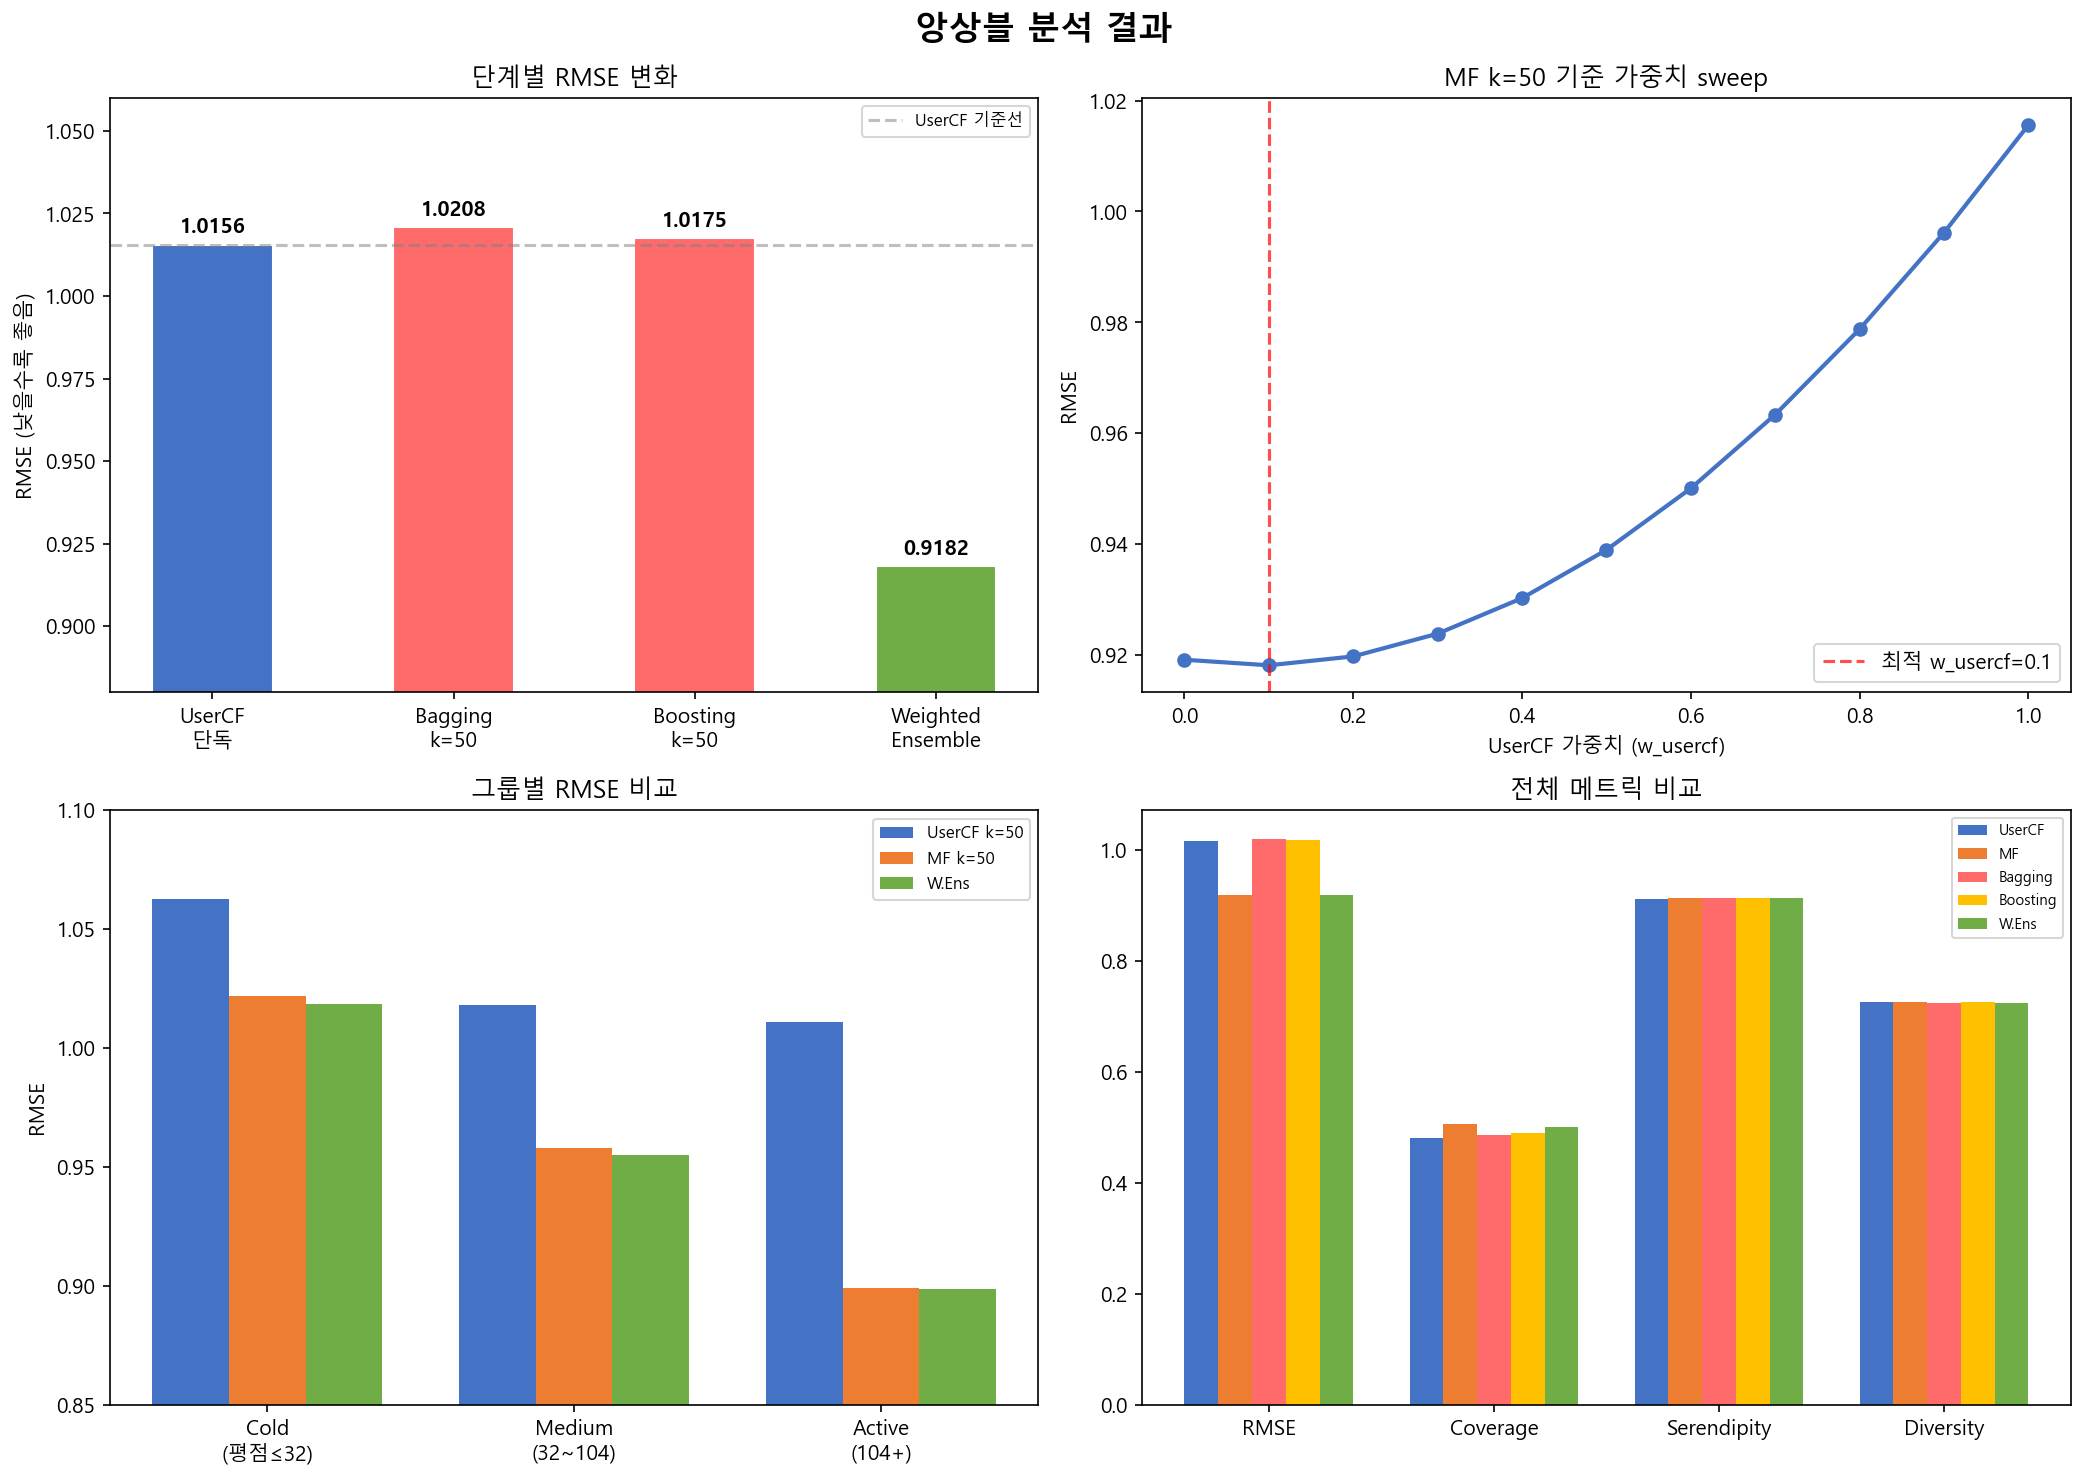
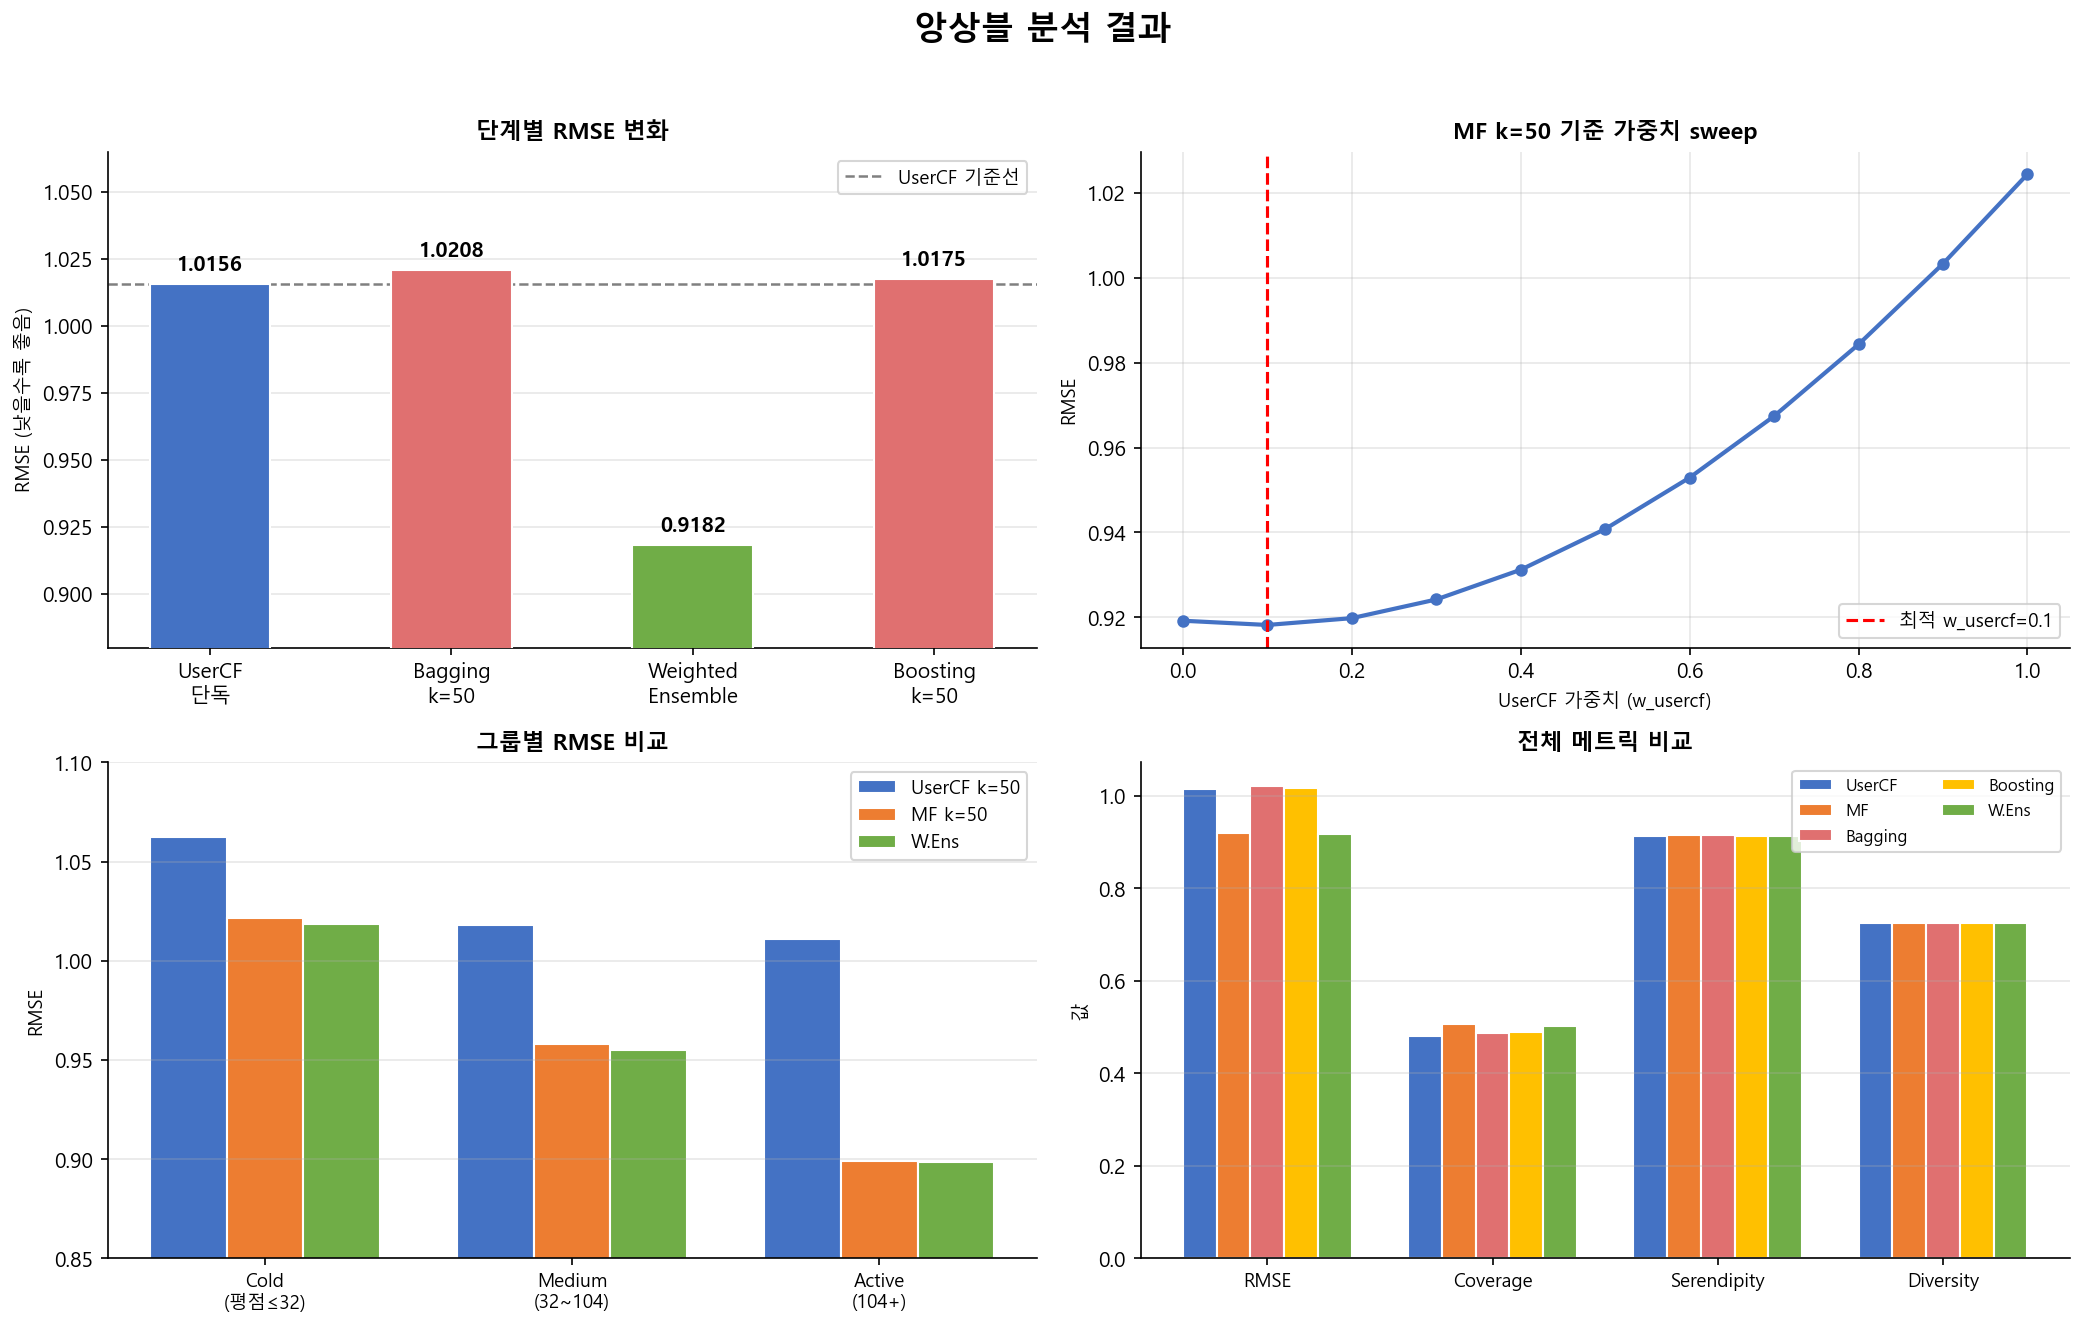
Add ensemble analysis scripts and update charts
- Add file description comments to 1~6 analysis scripts
- Fix bar chart order (UserCF→Bagging→Weighted→Boosting)
- Add plot_ensemble_rmse.py for chart generation

diff --git a/plot_ensemble_rmse.py b/plot_ensemble_rmse.py
@@ -1,0 +1,119 @@
+# -*- coding: utf-8 -*-
+import matplotlib.pyplot as plt
+import pandas as pd
+import numpy as np
+from pathlib import Path
+
+plt.rcParams["font.family"] = "Malgun Gothic"
+plt.rcParams["axes.unicode_minus"] = False
+
+ENS_DIR = Path("ensemble_outputs")
+
+# ── 데이터 ──────────────────────────────────────────────────────────────
+sweep_df = pd.read_csv(ENS_DIR / "stage6_all_pair_weight_sweep.csv")
+sweep_line = sweep_df[(sweep_df["usercf_k"] == 20) & (sweep_df["mf_k"] == 50)].sort_values("w_usercf")
+
+grouping_df = pd.read_csv(ENS_DIR / "stage6_grouping_summary.csv")
+
+# ── 색상 ─────────────────────────────────────────────────────────────────
+C_BLUE   = "#4472C4"
+C_ORANGE = "#ED7D31"
+C_PINK   = "#E07070"
+C_YELLOW = "#FFC000"
+C_GREEN  = "#70AD47"
+
+# ── Figure ────────────────────────────────────────────────────────────────
+fig, axes = plt.subplots(2, 2, figsize=(14, 9))
+fig.suptitle("앙상블 분석 결과", fontsize=16, fontweight="bold", y=0.98)
+
+# ── [좌상] 단계별 RMSE 변화 (순서: UserCF → Bagging → Weighted → Boosting) ──
+ax = axes[0, 0]
+labels  = ["UserCF\n단독", "Bagging\nk=50", "Weighted\nEnsemble", "Boosting\nk=50"]
+rmse_v  = [1.0156,          1.0208,           0.9182,               1.0175]
+colors  = [C_BLUE,          C_PINK,           C_GREEN,              C_PINK]
+
+bars = ax.bar(labels, rmse_v, color=colors, width=0.5, edgecolor="white", zorder=3)
+for bar, val in zip(bars, rmse_v):
+    ax.text(bar.get_x() + bar.get_width() / 2, bar.get_height() + 0.003,
+            f"{val:.4f}", ha="center", va="bottom", fontsize=10, fontweight="bold")
+
+ax.axhline(y=1.0156, color="gray", linestyle="--", linewidth=1.2, label="UserCF 기준선", zorder=2)
+ax.set_ylim(0.88, 1.065)
+ax.set_ylabel("RMSE (낮을수록 좋음)", fontsize=9)
+ax.set_title("단계별 RMSE 변화", fontsize=11, fontweight="bold")
+ax.legend(fontsize=9)
+ax.spines["top"].set_visible(False)
+ax.spines["right"].set_visible(False)
+ax.grid(axis="y", alpha=0.3, zorder=1)
+
+# ── [우상] MF k=50 기준 가중치 sweep ─────────────────────────────────────
+ax = axes[0, 1]
+ax.plot(sweep_line["w_usercf"], sweep_line["RMSE"], color=C_BLUE, marker="o", markersize=5, linewidth=2)
+ax.axvline(x=0.1, color="red", linestyle="--", linewidth=1.5, label="최적 w_usercf=0.1")
+ax.set_xlabel("UserCF 가중치 (w_usercf)", fontsize=9)
+ax.set_ylabel("RMSE", fontsize=9)
+ax.set_title("MF k=50 기준 가중치 sweep", fontsize=11, fontweight="bold")
+ax.legend(fontsize=9)
+ax.spines["top"].set_visible(False)
+ax.spines["right"].set_visible(False)
+ax.grid(alpha=0.3)
+
+# ── [좌하] 그룹별 RMSE 비교 ───────────────────────────────────────────────
+ax = axes[1, 0]
+models_g = ["UserCF_best_k50", "MF_best_k50", "Weighted_all_pair_best"]
+labels_g = ["UserCF k=50", "MF k=50", "W.Ens"]
+colors_g = [C_BLUE, C_ORANGE, C_GREEN]
+groups   = ["cold", "medium", "active"]
+xlabels  = ["Cold\n(평점≤32)", "Medium\n(32~104)", "Active\n(104+)"]
+
+x = np.arange(len(groups))
+w = 0.25
+for i, (m, lbl, c) in enumerate(zip(models_g, labels_g, colors_g)):
+    vals = [grouping_df[(grouping_df["model"] == m) & (grouping_df["group"] == g)]["RMSE"].values[0]
+            for g in groups]
+    ax.bar(x + i * w, vals, width=w, color=c, label=lbl, edgecolor="white")
+
+ax.set_xticks(x + w)
+ax.set_xticklabels(xlabels, fontsize=9)
+ax.set_ylabel("RMSE", fontsize=9)
+ax.set_ylim(0.85, 1.10)
+ax.set_title("그룹별 RMSE 비교", fontsize=11, fontweight="bold")
+ax.legend(fontsize=9)
+ax.spines["top"].set_visible(False)
+ax.spines["right"].set_visible(False)
+ax.grid(axis="y", alpha=0.3)
+
+# ── [우하] 전체 메트릭 비교 ───────────────────────────────────────────────
+ax = axes[1, 1]
+metrics_map = {
+    "UserCF":   {"RMSE": 1.0156, "Coverage": 0.4810, "Serendipity": 0.9122, "Diversity": 0.7255},
+    "MF":       {"RMSE": 0.9192, "Coverage": 0.5059, "Serendipity": 0.9142, "Diversity": 0.7252},
+    "Bagging":  {"RMSE": 1.0208, "Coverage": 0.4869, "Serendipity": 0.9144, "Diversity": 0.7249},
+    "Boosting": {"RMSE": 1.0175, "Coverage": 0.4893, "Serendipity": 0.9129, "Diversity": 0.7255},
+    "W.Ens":    {"RMSE": 0.9182, "Coverage": 0.5012, "Serendipity": 0.9138, "Diversity": 0.7249},
+}
+met_labels = ["RMSE", "Coverage", "Serendipity", "Diversity"]
+model_names = list(metrics_map.keys())
+model_colors = [C_BLUE, C_ORANGE, C_PINK, C_YELLOW, C_GREEN]
+
+x2 = np.arange(len(met_labels))
+w2 = 0.15
+for i, (name, c) in enumerate(zip(model_names, model_colors)):
+    vals = [metrics_map[name][m] for m in met_labels]
+    ax.bar(x2 + i * w2, vals, width=w2, color=c, label=name, edgecolor="white")
+
+ax.set_xticks(x2 + w2 * 2)
+ax.set_xticklabels(met_labels, fontsize=9)
+ax.set_ylabel("값", fontsize=9)
+ax.set_title("전체 메트릭 비교", fontsize=11, fontweight="bold")
+ax.legend(fontsize=8, ncol=2)
+ax.spines["top"].set_visible(False)
+ax.spines["right"].set_visible(False)
+ax.grid(axis="y", alpha=0.3)
+
+# ── 저장 ──────────────────────────────────────────────────────────────────
+plt.tight_layout(rect=[0, 0, 1, 0.96])
+out = Path("ensemble_ppt_graphs.png")
+plt.savefig(out, dpi=150, bbox_inches="tight")
+plt.show()
+print(f"저장 완료: {out.resolve()}")

diff --git a/6_pairing_grouping_analysis.py b/6_pairing_grouping_analysis.py
@@ -1,3 +1,6 @@
+# 사용자 활동량별로 나눠서 성능 비교
+
+
 # -*- coding: utf-8 -*-
 import sys
 sys.stdout.reconfigure(encoding='utf-8')
@@ -36,7 +39,7 @@ def evaluate(df, pred_col="pred_rating"):
 
 
 def find_prediction_file(model, k):
-    # k=5가 k50을 잡는 문제 방지 위해 exact path 먼저 확인
+    # k=5가 k50을 잡는 문제 방지 위해 exact path 먼저 확인함
 
     if model == "UserCF":
         candidates = [
@@ -316,7 +319,7 @@ def evaluate_by_group(model_name, pred_path, user_groups):
             **metrics
         })
 
-    # 전체도 추가
+    # 전체 기준
     metrics_all = evaluate(df)
 
     rows.append({

diff --git a/3_weighted_ensemble.py b/3_weighted_ensemble.py
@@ -1,3 +1,6 @@
+# 같은 k끼리 가중치 바꿔가며 탐색
+
+
 # -*- coding: utf-8 -*-
 import sys
 sys.stdout.reconfigure(encoding='utf-8')
@@ -24,7 +27,7 @@ def mae(y_true, y_pred):
 
 
 def find_prediction_file(model, k):
-    # k=5가 k50을 잡는 문제 방지 위해 exact path 먼저 확인
+    # k=5가 k50을 잡는 문제 방지 위해 exact path 먼저 확인함
     if model == "UserCF":
         exact_candidates = [
             OUT_DIR / f"valid_user_cf_k{k}.csv",

diff --git a/1_baseline_summary.py b/1_baseline_summary.py
@@ -1,3 +1,6 @@
+# 각 모델 단독 성능 먼저 뽑기
+
+
 # -*- coding: utf-8 -*-
 import sys
 sys.stdout.reconfigure(encoding='utf-8')
@@ -23,7 +26,7 @@ def mae(y_true, y_pred):
 
 
 def find_prediction_file(model, k):
-    # k=5가 k50을 잡는 문제 방지 위해 exact path 먼저 확인
+    # k=5가 k50을 잡는 문제 방지 위해 exact path 먼저 확인함
     if model == "UserCF":
         exact_candidates = [
             OUT_DIR / f"valid_user_cf_k{k}.csv",

diff --git a/4_boosting_usercf.py b/4_boosting_usercf.py
@@ -1,3 +1,6 @@
+# 부스팅 - 틀린 샘플 더 학습시키기
+
+
 # -*- coding: utf-8 -*-
 import sys
 sys.stdout.reconfigure(encoding='utf-8')
@@ -11,7 +14,7 @@ from surprise import Dataset, Reader, KNNBasic
 
 SEED = 42
 TRAIN_RATIO = 0.85
-K = 50  # Stage 1~3에서 k=50이 가장 좋았으므로
+K = 50  # Stage 1~3에서 k=50이 가장 좋았기 때문에 고정함
 N_ROUNDS = 5
 BOOST_FACTOR = 1.5
 

diff --git a/2_true_bagging_usercf.py b/2_true_bagging_usercf.py
@@ -1,3 +1,6 @@
+# 배깅 - 부트스트랩으로 25개 모델 돌리기
+
+
 # -*- coding: utf-8 -*-
 import sys
 sys.stdout.reconfigure(encoding='utf-8')

diff --git a/5_non_accuracy_metrics.py b/5_non_accuracy_metrics.py
@@ -1,3 +1,6 @@
+# 커버리지, 의외성, 참신성, 다양성 계산
+
+
 # -*- coding: utf-8 -*-
 import sys
 sys.stdout.reconfigure(encoding='utf-8')
